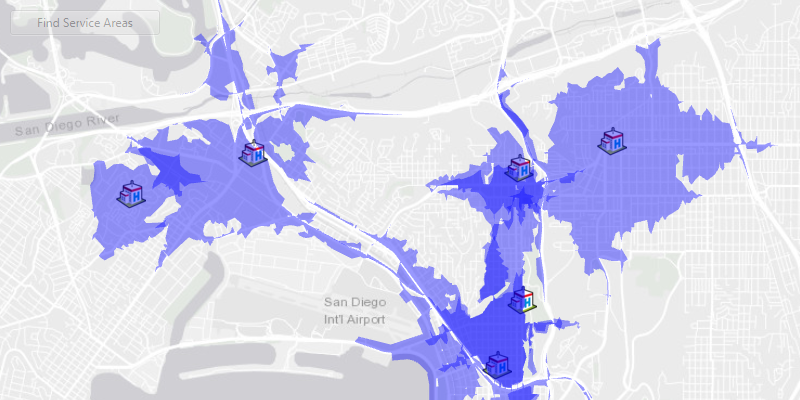
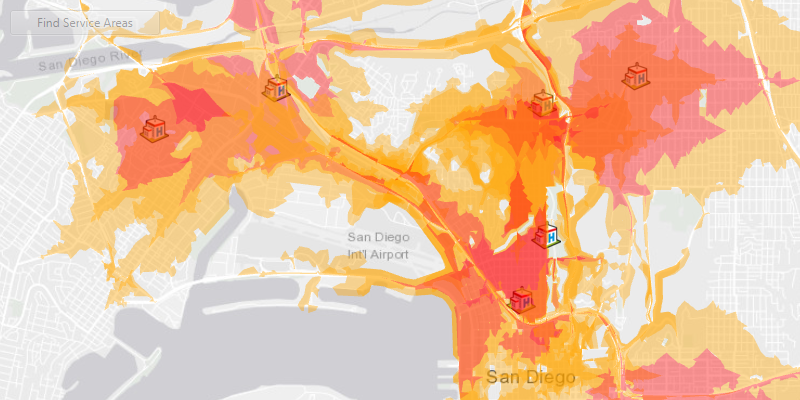
3/5min service areas, yellow/red color

diff --git a/src/main/java/com/esri/samples/na/find_service_areas_for_multiple_facilities/FindServiceAreasForMultipleFacilitiesSample.java b/src/main/java/com/esri/samples/na/find_service_areas_for_multiple_facilities/FindServiceAreasForMultipleFacilitiesSample.java
@@ -1,5 +1,6 @@
 package com.esri.samples.na.find_service_areas_for_multiple_facilities;
 
+import java.util.ArrayList;
 import java.util.List;
 import java.util.concurrent.ExecutionException;
 
@@ -90,7 +91,9 @@ public class FindServiceAreasForMultipleFacilitiesSample extends Application {
     mapView.getGraphicsOverlays().add(serviceAreasGraphicsOverlay);
 
     // create a fill symbol for rendering the result
-    SimpleFillSymbol simpleFillSymbol = new SimpleFillSymbol(SimpleFillSymbol.Style.SOLID, 0x660000FF, null);
+    ArrayList<SimpleFillSymbol> fillSymbols = new ArrayList<>();
+    fillSymbols.add(new SimpleFillSymbol(SimpleFillSymbol.Style.SOLID, 0x66FFA500, null));
+    fillSymbols.add(new SimpleFillSymbol(SimpleFillSymbol.Style.SOLID, 0x66FF0000, null));
 
     // create a feature table of facilities using a FeatureServer
     ArcGISFeatureTable facilitiesTable = new ServiceFeatureTable("https://services2.arcgis.com/ZQgQTuoyBrtmoGdP/ArcGIS/rest/services/San_Diego_Facilities/FeatureServer/0");
@@ -147,8 +150,8 @@ public class FindServiceAreasForMultipleFacilitiesSample extends Application {
               // set the task parameters to have the task return polygons
               serviceAreaParameters.setPolygonDetail(ServiceAreaPolygonDetail.HIGH);
               serviceAreaParameters.setReturnPolygons(true);
-              // change the service area to 3 minutes (default service area is 5 minutes)
-              serviceAreaParameters.getDefaultImpedanceCutoffs().set(0, 3.0);
+              // add a service area of 3 minutes in addition to the default service area of 5 minutes
+              serviceAreaParameters.getDefaultImpedanceCutoffs().add(3.0);
 
               // create query parameters used to select all facilities from the feature table
               QueryParameters queryParameters = new QueryParameters();
@@ -173,7 +176,7 @@ public class FindServiceAreasForMultipleFacilitiesSample extends Application {
                     // we may have more than one resulting service area, so create a graphics from each available polygon
                     for (int polygonIndex = 0; polygonIndex < serviceAreaPolygonList.size(); polygonIndex++) {
                       // create and show a graphics for the service area
-                      serviceAreaGraphics.add(new Graphic(serviceAreaPolygonList.get(polygonIndex).getGeometry(), simpleFillSymbol));
+                      serviceAreaGraphics.add(new Graphic(serviceAreaPolygonList.get(polygonIndex).getGeometry(), fillSymbols.get(polygonIndex % fillSymbols.size())));
                     }
                   }
 
